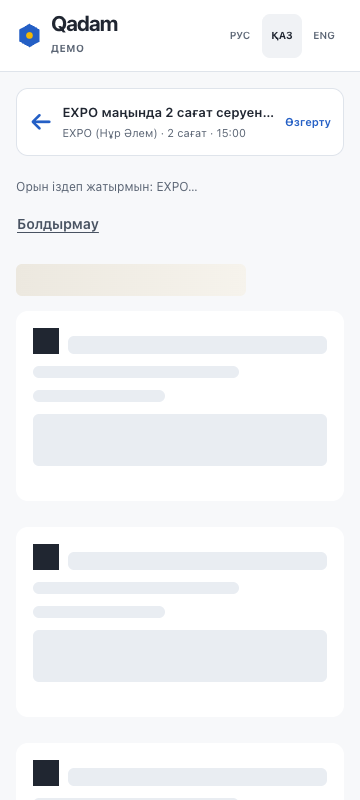
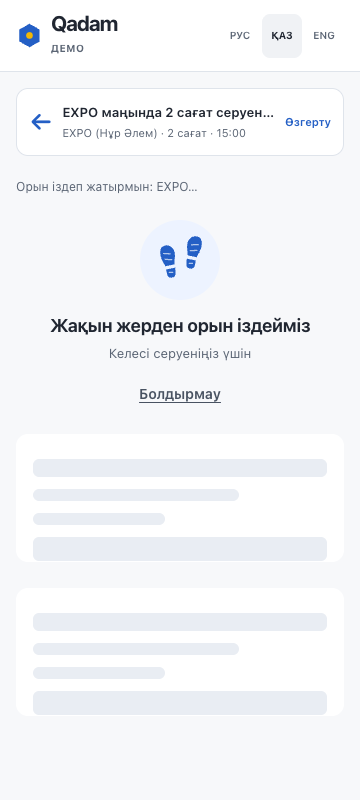
design: integrate compact walking search animation

diff --git a/design/delivery/demo/polish.css b/design/delivery/demo/polish.css
@@ -31,3 +31,8 @@ body{background:#fff}.app{grid-template-columns:480px minmax(0,1fr);height:calc(
  .home-intro{display:none}.controls{padding-top:24px}.home-heading{margin-bottom:20px}.home-heading h2{font-size:32px}.eyebrow{color:#245fc5;margin-bottom:12px}.eyebrow::before{width:8px;height:8px;background:#f4b83f}.query-row{border-color:#c4d3ec;background:linear-gradient(180deg,#fff 0%,#f8fbff 100%);padding:14px;box-shadow:0 4px 20px #245fc50b}.query-row textarea{min-height:78px;font-size:16px}.mobile-conditions{display:grid;grid-template-columns:1fr 1fr;gap:8px;margin-top:12px;padding-top:12px;border-top:1px solid #dce5f3}.condition-control{display:flex;align-items:center;gap:8px;text-align:left;min-height:62px;min-width:0;padding:10px;background:#fff;border:1px solid #d7e0ee;border-radius:10px;cursor:pointer}.condition-control>img{width:18px;height:18px;flex-shrink:0}.condition-control>span:not(.control-chevron){flex:1;min-width:0}.condition-control small{display:block;font-size:11px;line-height:1.4;color:var(--muted);font-weight:400}.condition-control strong{display:block;font-size:14px;line-height:1.4;font-weight:600;overflow:hidden;text-overflow:ellipsis;white-space:nowrap}.condition-where{grid-column:1/-1;background:#eef4ff;border-color:#c6d7f2}.control-chevron{display:grid;place-items:center;width:24px;height:28px;border-radius:7px;background:#e8effc;color:#194b9f;font-size:28px;line-height:1;font-weight:600;flex-shrink:0}.parameters>summary{font-size:0;border-top:0;padding:10px 0 0;min-height:44px;color:var(--accent);font-weight:600}.parameters>summary::before{content:'Қосымша параметрлер';width:auto;height:auto;background:none;font-size:12px}.parameters>summary::after{content:'⌄';font-size:21px;font-weight:700;display:grid;place-items:center;background:#e8effc;border-radius:6px;width:24px;height:24px}.query-row #submit{margin-top:6px;min-height:50px;background:#245fc5;box-shadow:0 3px 8px #245fc522;font-size:16px}.query-row #submit::after{font-size:28px;font-weight:600}.presets{margin-top:20px}.preset[data-preset="S1"]{background:#edf3ff;border-color:#e1eaff}.preset[data-preset="S2"]{background:#fff4df;border-color:#f8e9c9}.preset[data-preset="S3"]{background:#f3edff;border-color:#e9defb}.preset[data-preset="S4"]{background:#e9f5fa;border-color:#d8ecf5}.preset[data-preset="S5"]{background:#eef0f8;border-color:#e0e4f0}.preset[aria-pressed=true]{border-color:var(--accent)}.query-summary-icon{font-size:26px;font-weight:600;color:var(--accent)}.card-details>summary::after{font-size:24px;color:var(--accent);font-weight:600}.privacy-note{margin-top:14px}.home-view .app>.map-wrap{margin-top:4px}
  html[lang="ru"] .parameters>summary::before{content:'Ещё параметры'}html[lang="en"] .parameters>summary::before{content:'More options'}
 }
+
+/* Qadam search motion: compact alternating footprints, only while loading. */
+.search-progress{text-align:center;padding:12px 0 18px}.search-steps{position:relative;width:80px;height:80px;margin:0 auto 14px;border-radius:50%;background:#edf3ff}.search-step{position:absolute;display:block;transform-origin:center;opacity:.2;animation:qadam-search-step 1.4s cubic-bezier(.2,0,0,1) infinite}.search-step-left{left:21px;top:23px;rotate:-12deg}.search-step-right{left:44px;top:14px;rotate:12deg;animation-delay:-.7s}.search-step-right img{transform:scaleX(-1)}.search-step img{display:block;width:17px;height:36px}.search-progress-title{font-size:18px;font-weight:650;line-height:1.35;letter-spacing:-.3px;color:var(--ink);margin:0}.search-progress-hint{font-size:13px;line-height:1.5;color:var(--muted);margin:6px 0 4px}.search-progress .loading-cancel{position:static;display:inline-flex;margin:4px 0 0;min-height:44px}.loading .card.skeleton{height:128px}.loading .sk-block{height:24px}.loading .sk{animation:none!important;background:#e9edf3}
+@keyframes qadam-search-step{0%,8%{opacity:.2;transform:translateY(-3px) scale(.9)}28%,48%{opacity:1;transform:translateY(0) scale(1)}78%,100%{opacity:.2;transform:translateY(0) scale(1)}}
+@media(prefers-reduced-motion:reduce){.search-step{animation:none;opacity:1;transform:none}}

diff --git a/design/delivery/demo/lib/render.js b/design/delivery/demo/lib/render.js
@@ -122,7 +122,7 @@ export function renderLoading(root, { onCancel } = {}) {
     h(
       'li',
       { class: 'card skeleton' },
-      h('div', { class: 'card-head' }, h('span', { class: 'rank sk' }), h('span', { class: 'sk sk-title' })),
+      h('div', { class: 'card-head' }, h('span', { class: 'sk sk-title' })),
       h('span', { class: 'sk sk-line' }),
       h('span', { class: 'sk sk-line short' }),
       h('span', { class: 'sk sk-block' }),
@@ -131,11 +131,18 @@ export function renderLoading(root, { onCancel } = {}) {
     h(
       'div',
       { class: 'loading', 'aria-label': t('loading.label') },
-      onCancel
-        ? h('button', { type: 'button', class: 'btn btn-link btn-sm loading-cancel', onclick: onCancel }, t('loading.cancel'))
-        : null,
-      h('span', { class: 'sk sk-summary', 'aria-hidden': 'true' }),
-      h('ol', { class: 'cards', 'aria-hidden': 'true' }, skel(), skel(), skel()),
+      h('div', { class: 'search-progress' },
+        h('div', { class: 'search-steps', 'aria-hidden': 'true' },
+          h('span', { class: 'search-step search-step-left' }, h('img', { src: '../assets/search-sole.svg', alt: '', width: '20', height: '42' })),
+          h('span', { class: 'search-step search-step-right' }, h('img', { src: '../assets/search-sole.svg', alt: '', width: '20', height: '42' })),
+        ),
+        h('p', { class: 'search-progress-title', role: 'status' }, t('loading.search')),
+        h('p', { class: 'search-progress-hint' }, t('loading.walk')),
+        onCancel
+          ? h('button', { type: 'button', class: 'btn btn-link btn-sm loading-cancel', onclick: onCancel }, t('loading.cancel'))
+          : null,
+      ),
+      h('ol', { class: 'cards', 'aria-hidden': 'true' }, skel(), skel()),
     ),
   );
 }

diff --git a/design/delivery/demo/lib/i18n.js b/design/delivery/demo/lib/i18n.js
@@ -82,6 +82,8 @@ const DICT = {
     'stale.text': 'Условия изменились: карточки ниже для прежнего запроса.',
     'stale.btn': 'Обновить',
     'loading.cancel': 'Отменить',
+    'loading.search': 'Ищем места рядом',
+    'loading.walk': 'Для вашей следующей прогулки',
     'status.cancelled': 'Запрос отменён',
     'pick.banner': 'Нажмите на карту: уйдёт только H3-ячейка вокруг точки',
     'pick.cancel': 'Отмена',
@@ -329,6 +331,8 @@ const DICT = {
     'stale.text': 'Шарттар өзгерді: төмендегі карточкалар алдыңғы сұрау бойынша.',
     'stale.btn': 'Жаңарту',
     'loading.cancel': 'Болдырмау',
+    'loading.search': 'Жақын жерден орын іздейміз',
+    'loading.walk': 'Келесі серуеніңіз үшін',
     'status.cancelled': 'Сұрау тоқтатылды',
     'pick.banner': 'Картаны басыңыз: нүкте айналасындағы H3 ұяшығы ғана жіберіледі',
     'pick.cancel': 'Болдырмау',
@@ -576,6 +580,8 @@ const DICT = {
     'stale.text': 'Conditions changed: the cards below are for the previous request.',
     'stale.btn': 'Update',
     'loading.cancel': 'Cancel',
+    'loading.search': 'Finding places nearby',
+    'loading.walk': 'For your next walk',
     'status.cancelled': 'Request cancelled',
     'pick.banner': 'Tap the map: only the H3 cell around the point is sent',
     'pick.cancel': 'Cancel',

diff --git a/design/delivery/HANDOFF.md b/design/delivery/HANDOFF.md
@@ -52,3 +52,8 @@ python3 -m http.server 5512 --bind 127.0.0.1
 ## Проверка
 
 `manifest.json` содержит размеры, состояние, язык и границы первой карточки каждого кадра. Дополнительный независимый аудит — `QA-REVIEW.md`. PNG проверены визуально; 360/390/768/1280/1440 без горизонтального переполнения. Мок-карточки проверены по Pydantic-контракту. Живой API не запускался: это дизайнерская передача, интеграцию с сервером проверяет POLISH.
+
+
+### Анимация поиска
+
+Внедрён вариант 03 из design/animation-lab: компактная пара следов над двумя skeleton-карточками. Подписи kk/ru/en. Анимация существует только в loading и удаляется вместе с ним при ответе/отмене. prefers-reduced-motion показывает статичные следы; skeleton не пульсирует. Текущий демонстрационный ответ по-прежнему приходит через 700 мс — дополнительного ожидания ради анимации нет. Изменены только дизайнерский прототип и статический SVG; для production интегратору перенести renderLoading, CSS, 3 строки каждого словаря и asset.

diff --git a/design/delivery/UX-REFINEMENT.md b/design/delivery/UX-REFINEMENT.md
@@ -52,3 +52,8 @@
 ## Мобильные правки по отзывам команды
 
 Убран вводный абзац на телефоне. Место, длительность и время вынесены в три подписанные кнопки, открывающие соответствующую настройку. Стрелки крупнее и контрастнее; сценарии выделены мягкими синим, янтарным и лиловым фонами. Desktop сохраняет прежнюю компоновку. Публичный макет: https://qadam-walks-prototype.nifty-buddy-6738.chatgpt.site.
+
+
+### Анимация поиска
+
+Внедрён вариант 03 из design/animation-lab: компактная пара следов над двумя skeleton-карточками. Подписи kk/ru/en. Анимация существует только в loading и удаляется вместе с ним при ответе/отмене. prefers-reduced-motion показывает статичные следы; skeleton не пульсирует. Текущий демонстрационный ответ по-прежнему приходит через 700 мс — дополнительного ожидания ради анимации нет. Изменены только дизайнерский прототип и статический SVG; для production интегратору перенести renderLoading, CSS, 3 строки каждого словаря и asset.

diff --git a/design/delivery/QA-REVIEW.md b/design/delivery/QA-REVIEW.md
@@ -58,3 +58,8 @@ node capture.cjs
 ## Проверка мобильных правок команды
 
 Повторно пройдены 33/33 проверки взаимодействия. Отдельно проверены три кнопки условий: раскрытие нужных параметров и возврат через «Готово». На мобильном вводный абзац скрыт, на desktop остаётся. 41 кадр обновлён, errors=[]; переполнения нет. После публикации проверены анонимный доступ, отправка сценария, карта и возврат на 390×844.
+
+
+### Интеграция search motion 03
+
+Проверены 3 языка, 360px/1440px, загрузка SVG, отсутствие overflow, reduced motion, отмена с ожиданием после неё (поздний результат не появляется), исчезновение следов после ответа. 7 дополнительных проверок без ошибок JavaScript. Базовые 33 UX-проверки прошли. Обновлён screens/09-loading.png. Проверка в Chrome с эмуляцией размеров, реальные устройства не использовались.
